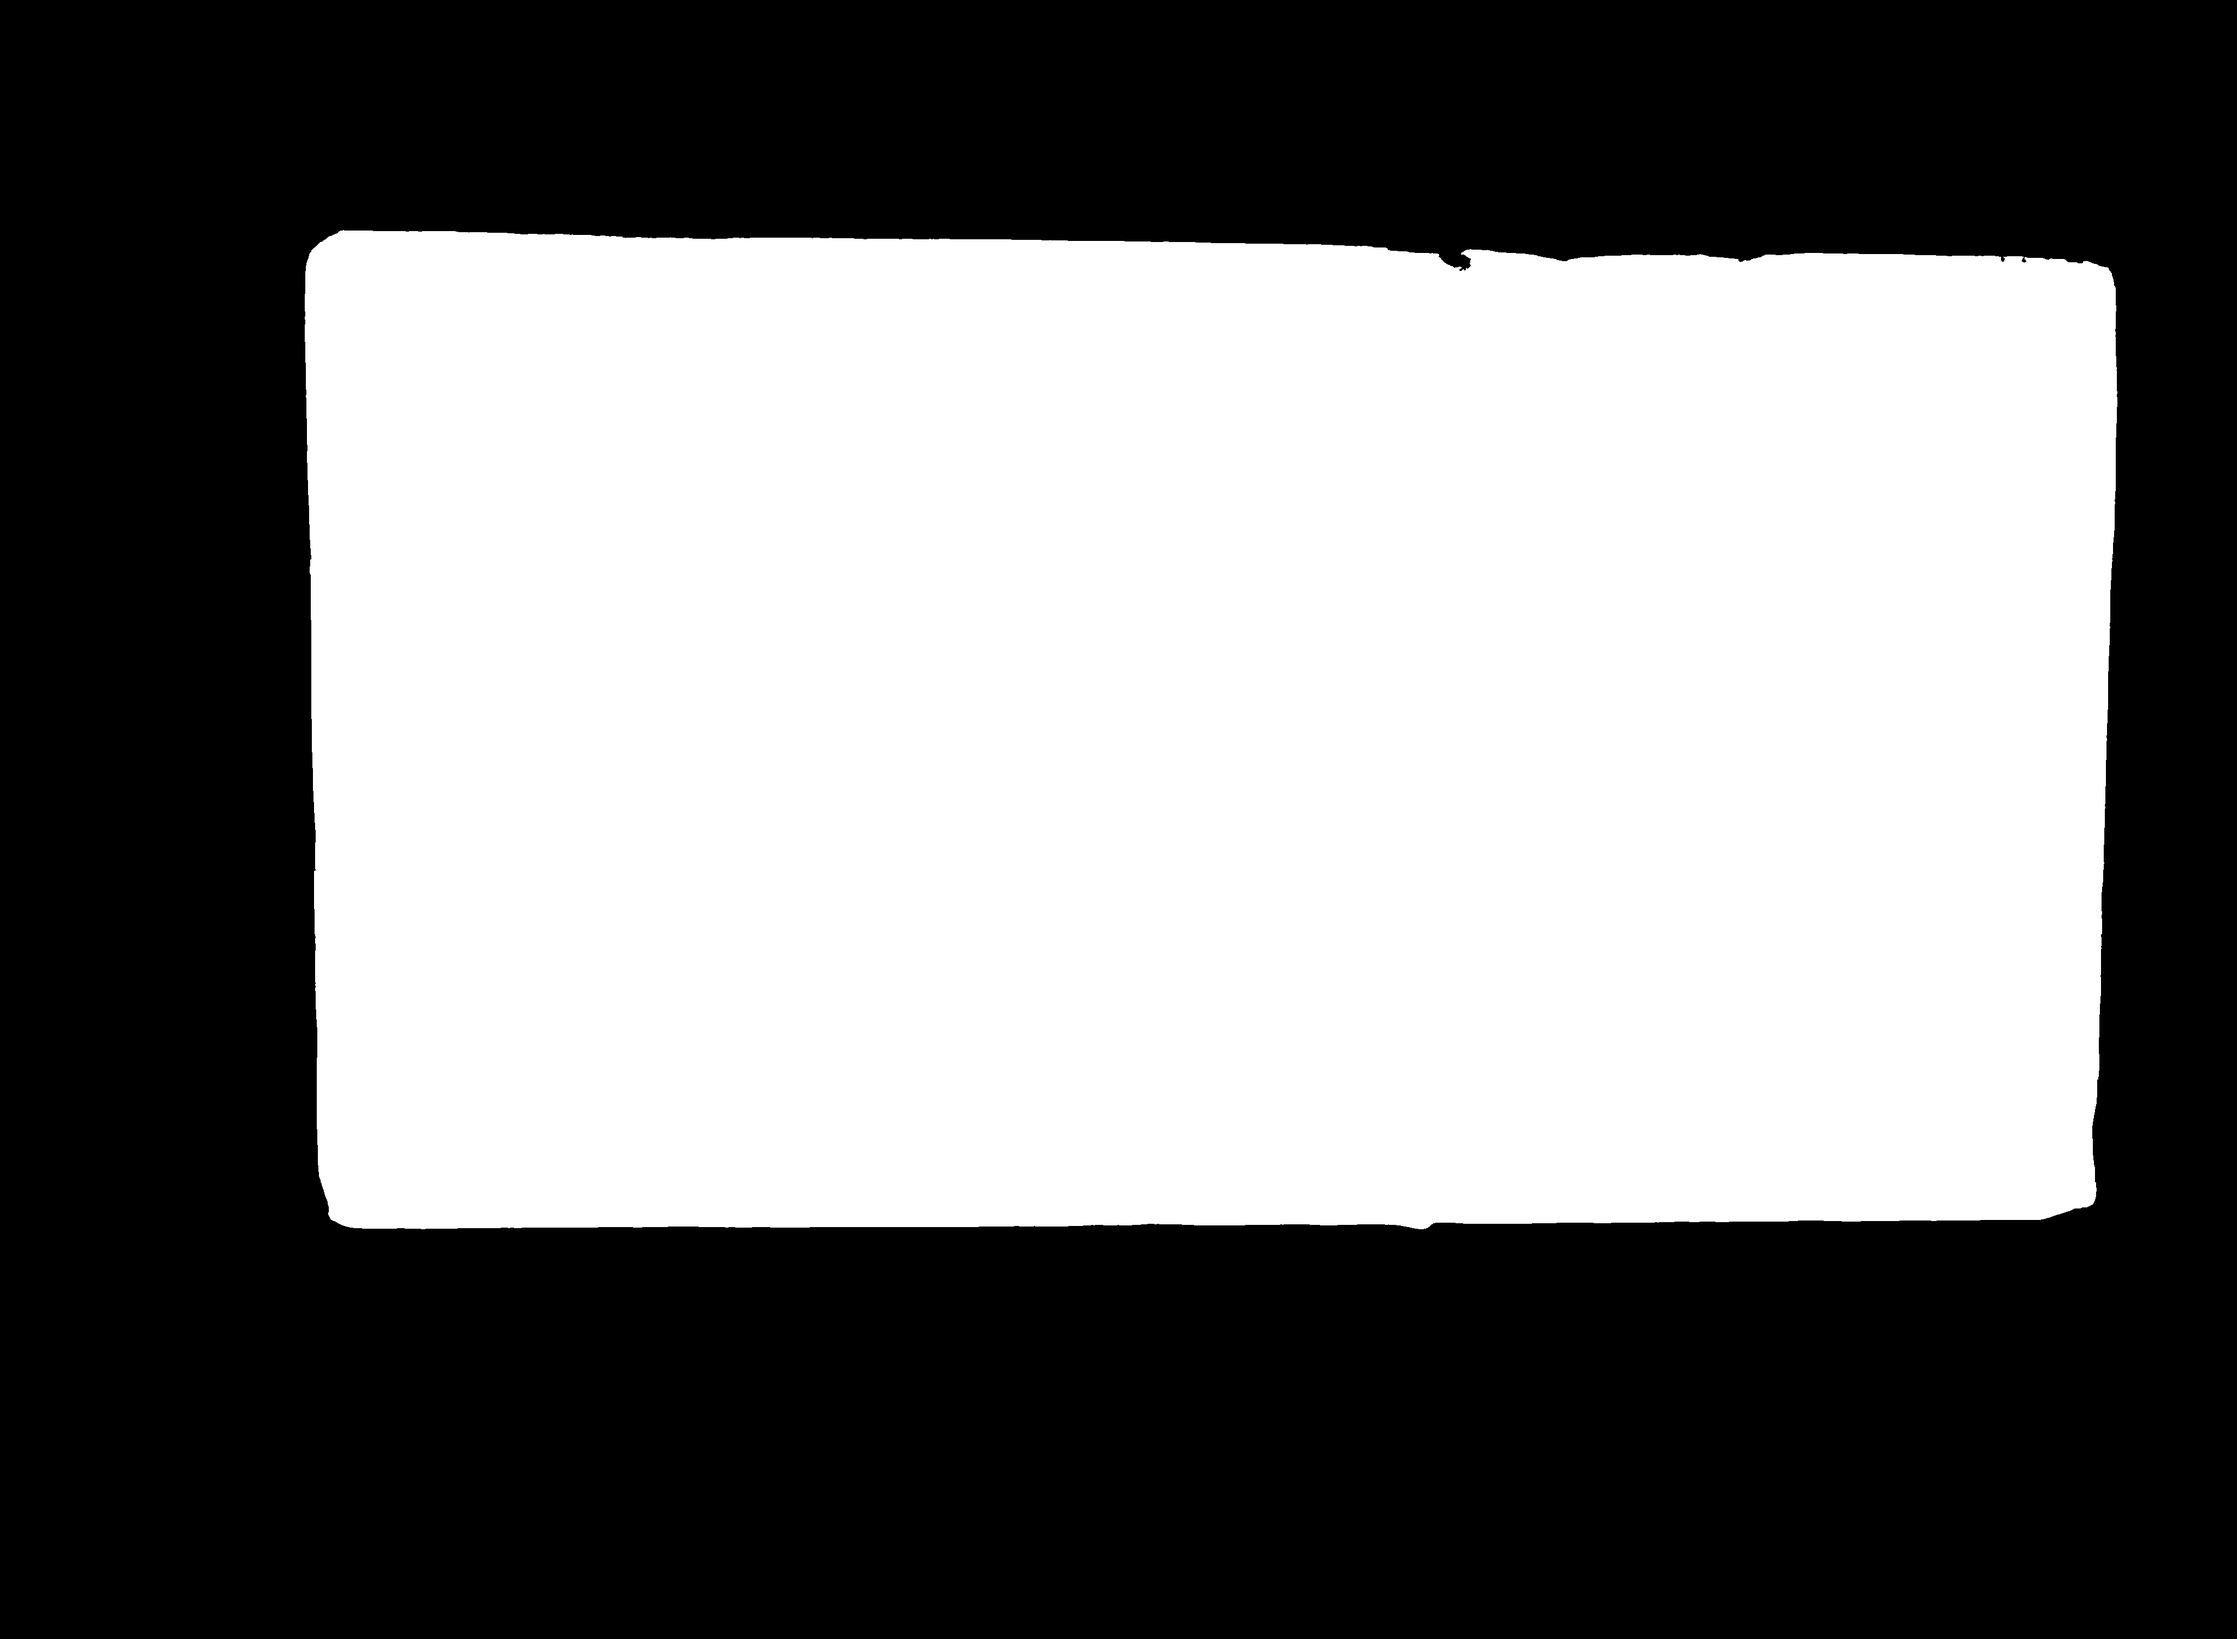
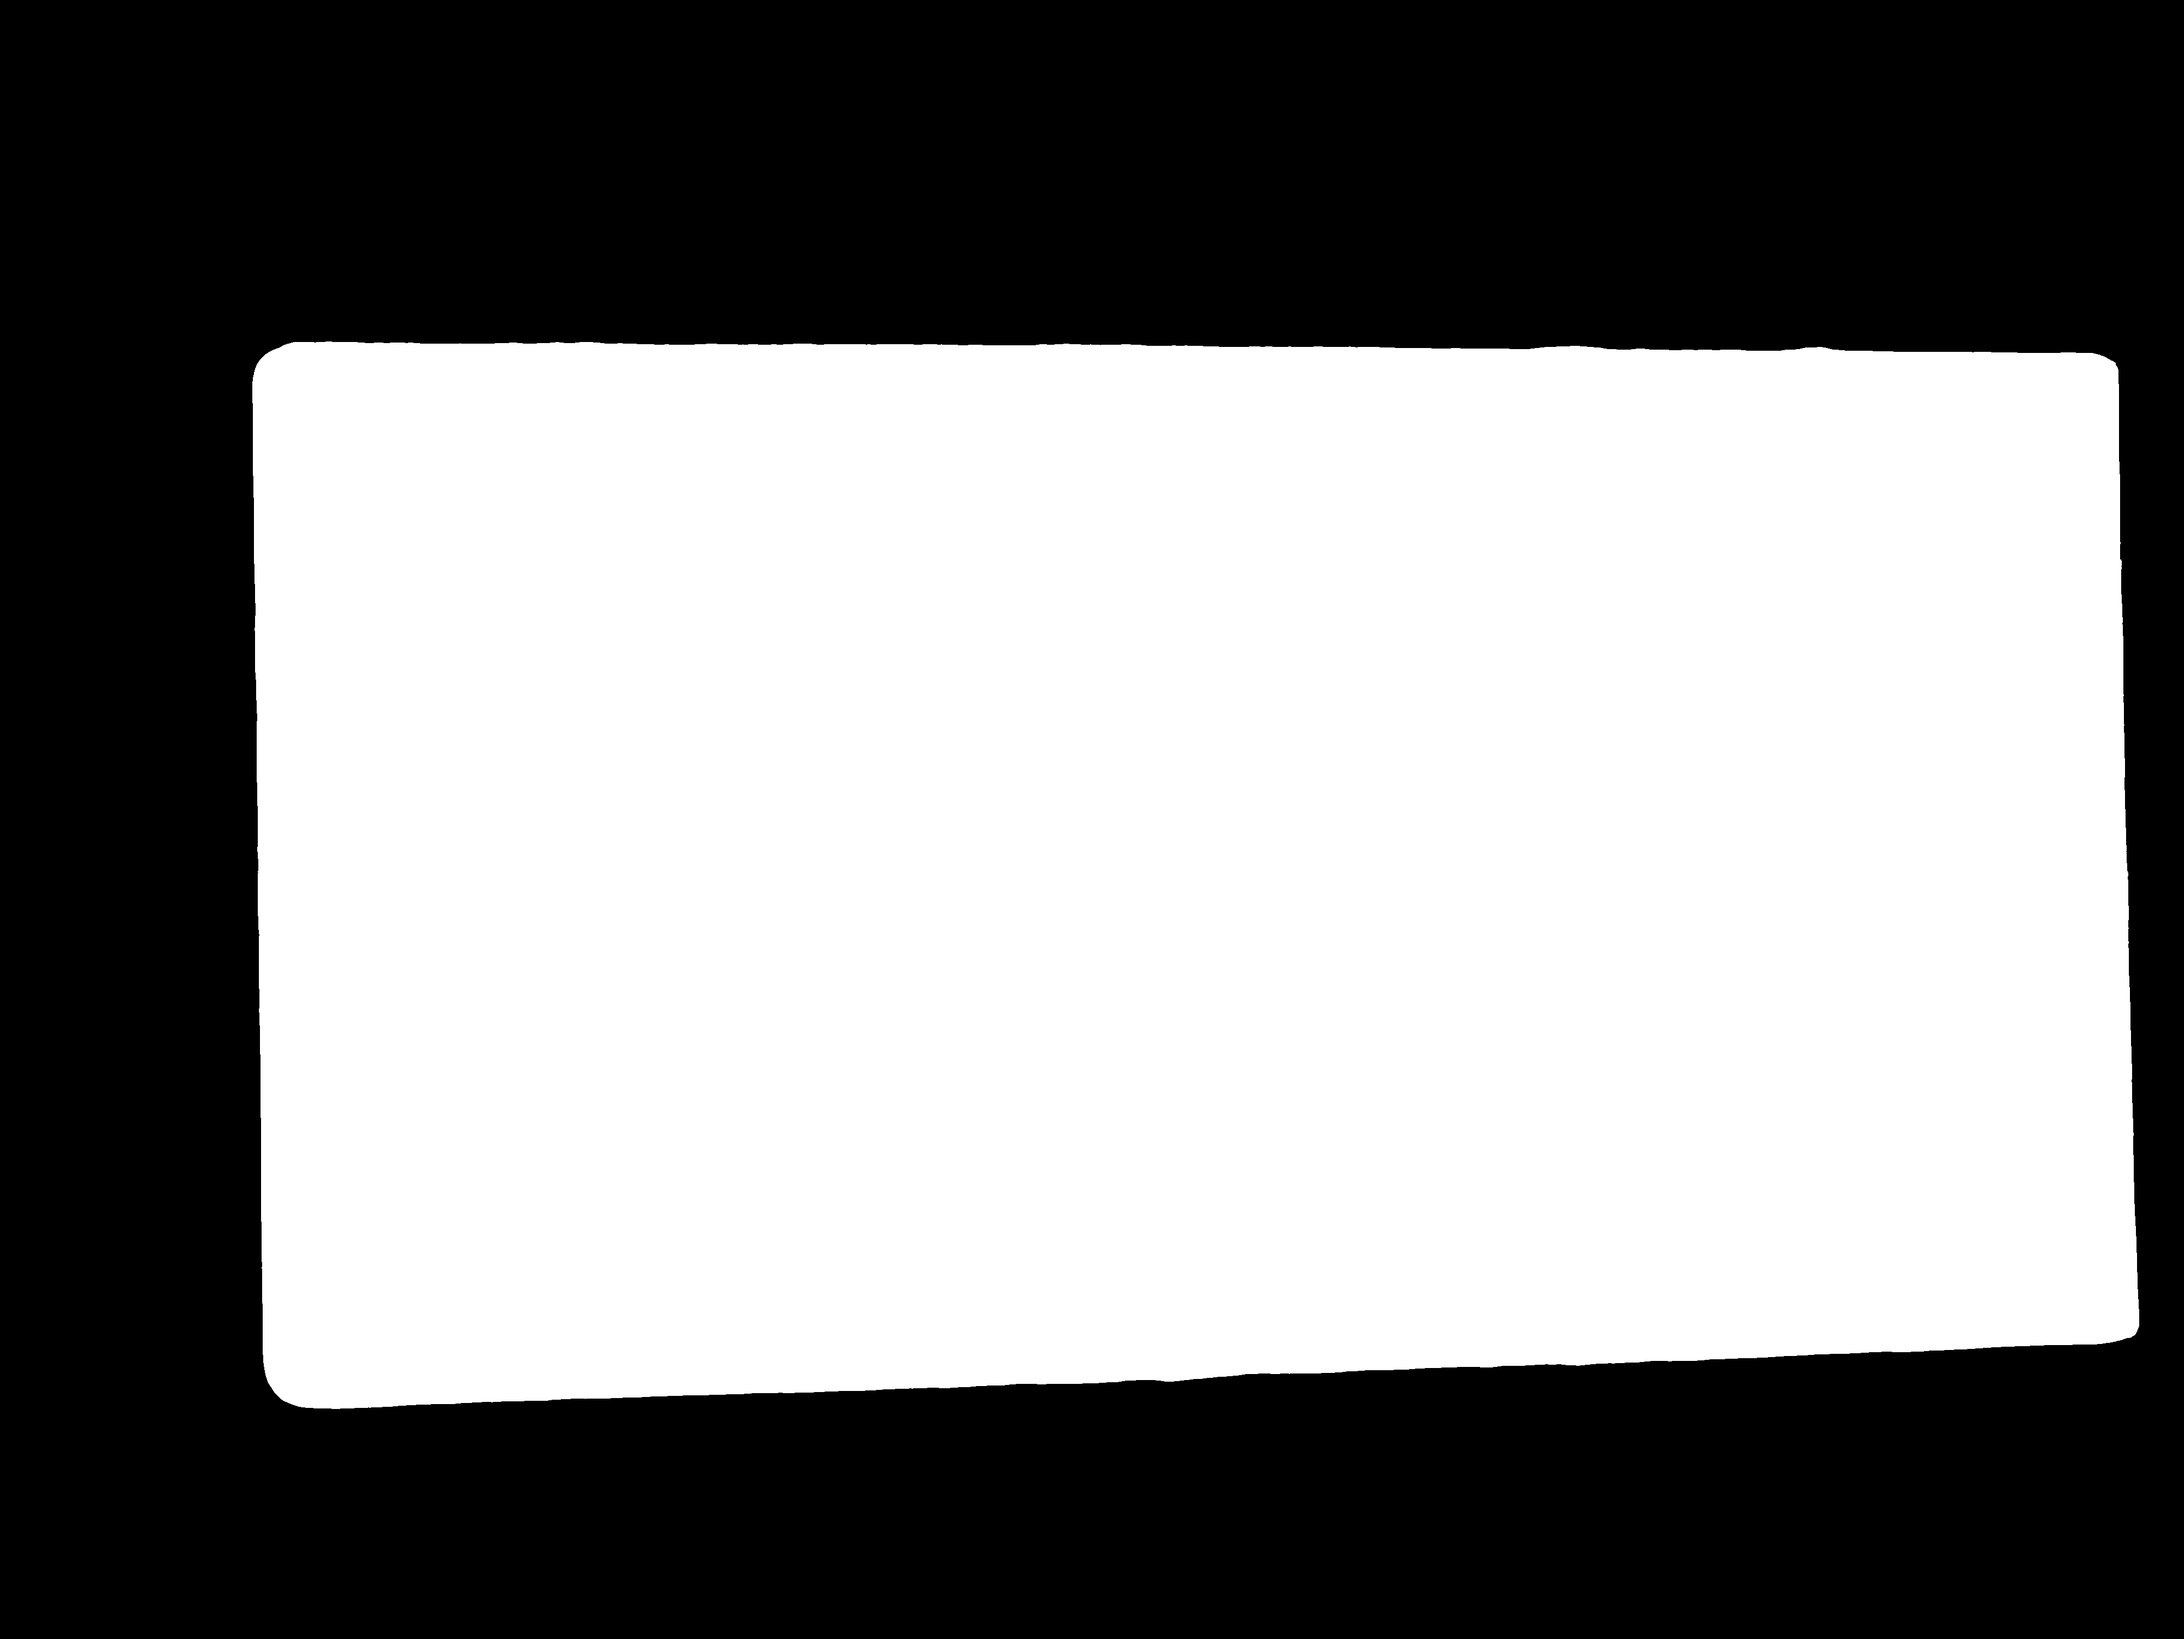
传统图像处理分割

Changed region(s): [[0.093, 0.124, 0.9922, 0.868]]

diff --git a/Registration.cpp b/Registration.cpp
@@ -210,7 +210,7 @@ void Registration::CntPoint(Mat& srcImage, Mat& dstImage, vector<vector<Point>>&
         pt2.x = cvRound(x0 - 10000 * (-b));
         pt2.y = cvRound(y0 - 10000 * (a));
         //画线
-        line(dstImage, pt1, pt2, Scalar(0, 255, 255), 3, LINE_AA);
+        line(dstImage, pt1, pt2, Scalar(255, 255, 255), 3, LINE_AA);
         //两两求交点
         for (size_t j = i + 1; j < lines.size(); ++j)
         {
@@ -223,6 +223,45 @@ void Registration::CntPoint(Mat& srcImage, Mat& dstImage, vector<vector<Point>>&
     }
 
 }
+
+//只需要画线，不返回点集的重载
+void Registration::CntPoint(Mat& srcImage, Mat& dstImage, const double rho_h, const double theta_h, const double th_h, const double srn, const double stn)
+{
+    //【1】载入原始图和Mat变量定义   
+    //Mat srcImage = imread("remove.png");  //工程目录下应该有一张名为remove.png的素材图
+    Mat midImage;//临时变量和目标图的定义
+    //vector<vector<Point>> pts(1);//存放交点
+
+    pts[0].clear();
+
+    //【2】进行边缘检测和转化为灰度图
+    Canny(srcImage, midImage, 50, 200, 3);//进行一此canny边缘检测
+    cvtColor(midImage, dstImage, COLOR_GRAY2BGR);//转化边缘检测后的图为灰度图
+    dstImage = Scalar::all(0);
+    //存储Canny边缘检测结果的中间图
+    MkdirAndImwrite("cannyEdge.png", midImage);
+
+    //【3】进行霍夫线变换
+    vector<Vec2f> lines;//定义一个矢量结构lines用于存放得到的线段矢量集合
+    HoughLines(midImage, lines, rho_h, theta_h, th_h, srn, stn);
+
+    //【4】依次在图中绘制出每条线段,并且两两求交点
+    for (size_t i = 0; i < lines.size(); i++)
+    {
+        float rho = lines[i][0], theta = lines[i][1];
+        Point pt1, pt2;
+        double a = cos(theta), b = sin(theta);
+        double x0 = a * rho, y0 = b * rho;
+        pt1.x = cvRound(x0 + 10000 * (-b));
+        pt1.y = cvRound(y0 + 10000 * (a));
+        pt2.x = cvRound(x0 - 10000 * (-b));
+        pt2.y = cvRound(y0 - 10000 * (a));
+        //画线
+        line(dstImage, pt1, pt2, Scalar(255, 255, 255), 3, LINE_AA);
+    }
+
+}
+
 
 
 void Registration::IntoPoly(Mat& dstImage, vector<vector<Point>>& pts)
@@ -484,14 +523,22 @@ bool Registration::GetRectVertices1Pic(const String FnSrc, const String fnBinImg
     //转换为灰度图
     cvtColor(srcImg, srcImg, COLOR_BGR2GRAY);
     //滤波
-    medianBlur(srcImg, blurImg, 21);
+    //medianBlur(srcImg, blurImg, 21);
+    medianBlur(srcImg, blurImg, 3);
     //blur(srcImg, blurImg, Size(3, 3));
     MkdirAndImwrite(fnBinImg + "Blur.png", blurImg);
     ////二值化
     //threshold(blurImg, blurImg, 100, 255, THRESH_BINARY);
     //MkdirAndImwrite(fnBinImg + "BinBlur.png", blurImg);
+    //阈值化
+    adaptiveThreshold(blurImg, blurImg, 255, ADAPTIVE_THRESH_GAUSSIAN_C, THRESH_BINARY_INV, 7, 5);
+    MkdirAndImwrite(fnBinImg + "Th.png", blurImg);
+    //识别并绘制直线
+    CntPoint(blurImg, edge, 1, CV_PI / 360, blurImg.cols * 450 / 4096);
+    MkdirAndImwrite(fnBinImg + "Lines.png", edge);
     //边缘检测
-    Canny(blurImg, edge, 5, 12, 3);
+    Canny(edge, blurImg, 5, 12, 3);
+    edge = blurImg;
     //保存Canny边缘图像
     MkdirAndImwrite(fnBinImg + "CannyEdge.png", edge);
     binImg = Scalar::all(0);
@@ -546,6 +593,76 @@ bool Registration::GetRectVertices1Pic(const String FnSrc, const String fnBinImg
 
 }
 
+//bool Registration::GetRectVertices1Pic(const String FnSrc, const String fnBinImg, Point2f pts2F[4]) {
+//    Mat srcImg = imread(FnSrc);
+//    Mat binImg(srcImg.size(), CV_8UC1), edge, blurImg;
+//    //转换为灰度图
+//    cvtColor(srcImg, srcImg, COLOR_BGR2GRAY);
+//    //滤波
+//    //medianBlur(srcImg, blurImg, 21);
+//    medianBlur(srcImg, blurImg, 3);
+//    //blur(srcImg, blurImg, Size(3, 3));
+//    //阈值化
+//    adaptiveThreshold(blurImg, blurImg, 255, ADAPTIVE_THRESH_GAUSSIAN_C, THRESH_BINARY_INV, 7, -5);
+//    MkdirAndImwrite(fnBinImg + "Blur.png", blurImg);
+//    ////二值化
+//    //threshold(blurImg, blurImg, 100, 255, THRESH_BINARY);
+//    //MkdirAndImwrite(fnBinImg + "BinBlur.png", blurImg);
+//    //边缘检测
+//    Canny(blurImg, edge, 5, 12, 3);
+//    //保存Canny边缘图像
+//    MkdirAndImwrite(fnBinImg + "CannyEdge.png", edge);
+//    binImg = Scalar::all(0);
+//    //提取轮廓
+//    vector<vector<Point>> contours;
+//    vector<Vec4i> hierarchy;
+//    //找到并存储轮廓
+//    findContours(edge, contours, hierarchy, RETR_TREE, CHAIN_APPROX_TC89_KCOS);
+//    //画出所有轮廓
+//    for (int index = 0; index < contours.size(); index++) {
+//        drawContours(edge, contours, index, Scalar(255, 255, 255), 1, 8/*, hierarchy*/);
+//    }
+//    //保存画出的边缘图像
+//    MkdirAndImwrite(fnBinImg + "Contours.png", edge);
+//    //提取面积最大的轮廓，下标为maxArea，polyContours存储外接多边形轮廓
+//    edge = Scalar::all(0);
+//    vector<vector<Point>> polyContours(contours.size());
+//    int maxArea = 0;
+//    for (int index = 0; index < contours.size(); index++) {
+//        if (contourArea(contours[index]) > contourArea(contours[maxArea]))
+//            maxArea = index;
+//        //最小外接多边形
+//        approxPolyDP(contours[index], polyContours[index], 30, true);
+//        //画出所有多边形轮廓
+//        drawContours(edge, polyContours, index, Scalar(255, 255, 255), 1, 8);
+//    }
+//    //保存画出的多边形边缘图像
+//    MkdirAndImwrite(fnBinImg + "PolyContours.png", edge);
+//
+//    //画出矩形
+//    Mat polyPic = Mat::zeros(srcImg.size(), CV_8UC3);
+//    //drawContours(polyPic, contours, maxArea, Scalar(0, 0, 255/*rand() & 255, rand() & 255, rand() & 255*/), 2);
+//    drawContours(polyPic, polyContours, maxArea, Scalar(0, 0, 255/*rand() & 255, rand() & 255, rand() & 255*/), 2);
+//    //保存画出的矩形图像
+//    MkdirAndImwrite(fnBinImg + "Rect.png", polyPic);
+//    //寻找凸包，hull储存凸包点
+//    vector<Point> hull;
+//    convexHull(polyContours[maxArea], hull, true);  //检测该轮廓的凸包,顺时针排列
+//
+//    //填充矩形
+//    IntoPoly(binImg, hull);
+//    MkdirAndImwrite(fnBinImg, binImg);
+//    //检测是否有4个点
+//    if (!Has4Points(hull, srcImg.cols / 4, srcImg.rows / 4) || pts2F == nullptr) return false;
+//
+//    //删除多余顶点(仅仅将不多余的放入2f)
+//    for (int i = 1, j = 1; i < hull.size(); ++i) {
+//        //不为多余顶点
+//        if (abs(hull[i - 1].x - hull[i].x) > (srcImg.cols / 4) || abs(hull[i - 1].y - hull[i].y) > (srcImg.rows / 4))
+//            pts2F[j++] = hull[i];
+//    }
+//
+//}
 
 
 

diff --git a/Registration.h b/Registration.h
@@ -78,6 +78,7 @@ namespace Registration
     /// <param name="srn">霍夫变换参数，像素精度除数</param>
     /// <param name="stn">霍夫变换参数，角精度除数</param>
     void CntPoint(Mat& srcImage, Mat& dstImage, vector<vector<Point>>& pts, const double rho_h = 1, const double theta_h = CV_PI / 360, const double th_h = 450, const double srn = 0, const double stn = 0);
+    void CntPoint(Mat& srcImage, Mat& dstImage, const double rho_h = 1, const double theta_h = CV_PI / 360, const double th_h = 450, const double srn = 0, const double stn = 0);
     void IntoPoly(Mat& dstImage, vector<vector<Point>>& pts);
     void IntoPoly(Mat& dstImage, vector<Point>& pts);
 
